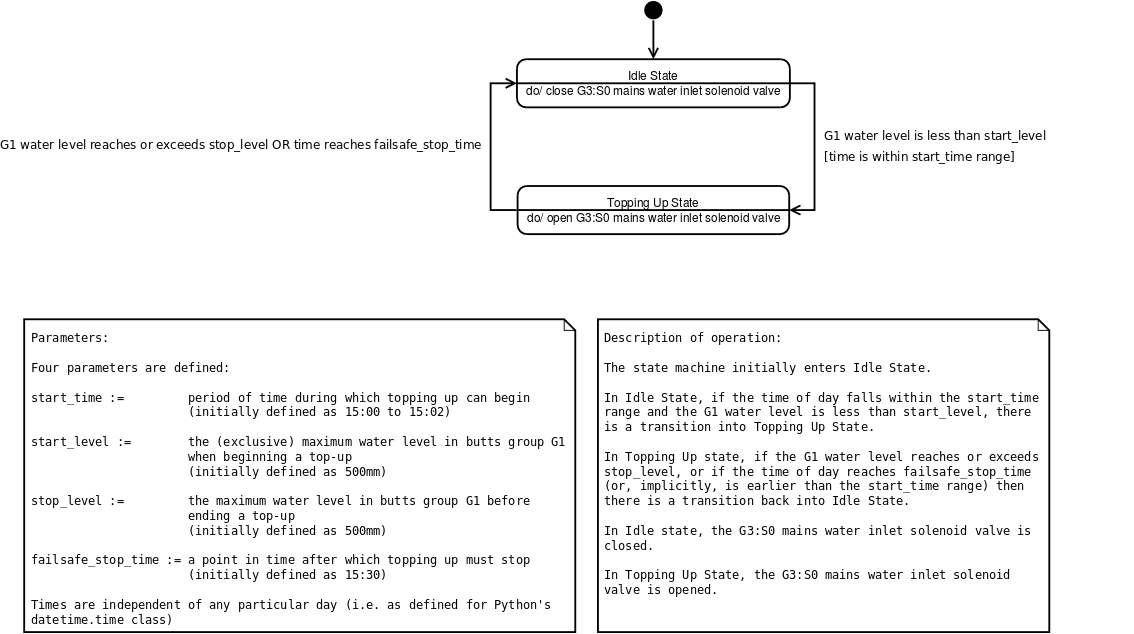
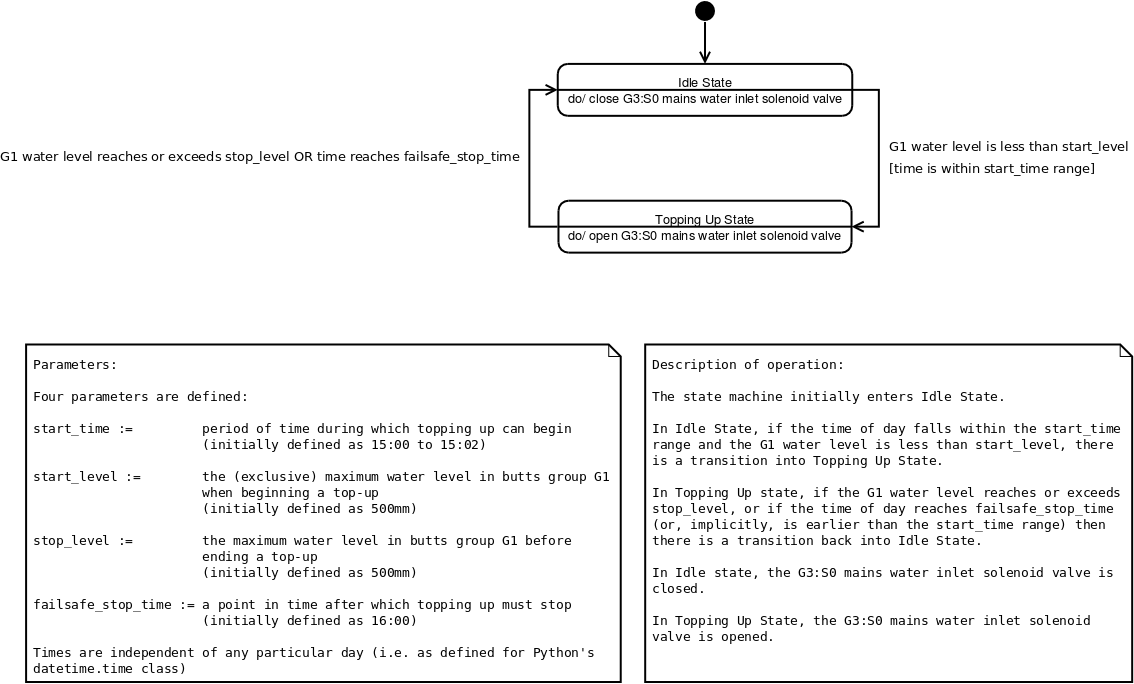
Change Temporary Top Up failsafe_end_time to allow 1 hour for top-up.
The original value of 15:30 assumed only the G1 butts group would be filling and that
half an hour would surely be long enough to fill the butts. However, in reality, it
is likely that the G2 and G3 butts groups will also fill, due to the gate valves
having been manually opened, and the manual valve to the rest of the system having
been manually closed. Changing the value to 16:00 will provide an hour, which ought to
be enough.

(N.B. The failsafe_end_time defines a last-resort cut-off time. Normally the top-up
should terminate before this time, due to the water level reaching stop_level.)

diff --git a/Logic/temptopuplogic.py b/Logic/temptopuplogic.py
@@ -97,7 +97,7 @@ reading interval.
 This does not constrain the end time of the top-up.
 """
 
-failsafe_end_time = datetime.time(15,30)
+failsafe_end_time = datetime.time(16,00)
 """
 Defines a cut-off time for the top-up as a last resort failsafe to limit water
 wastage in the event of a sensor failure. This should not normally come into
